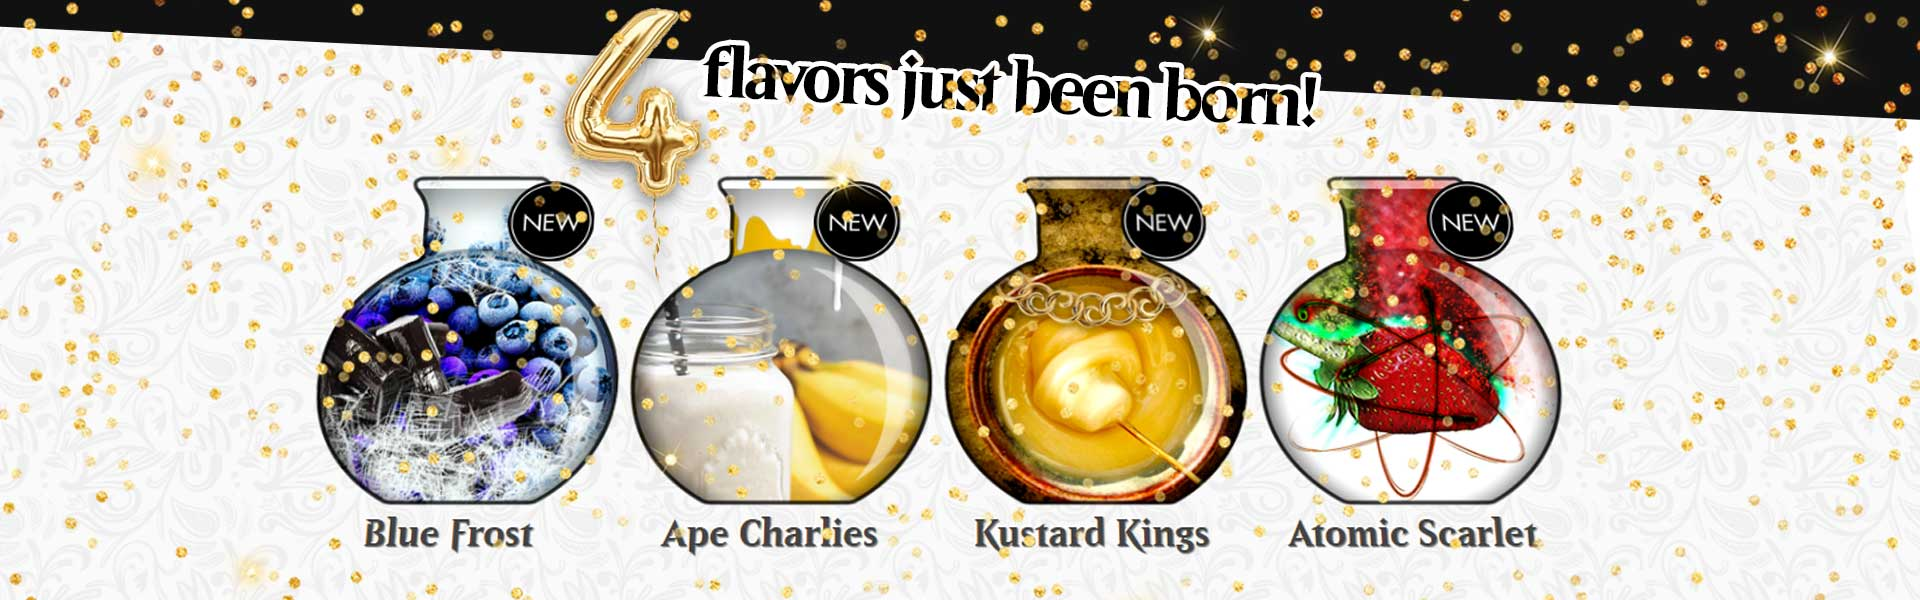
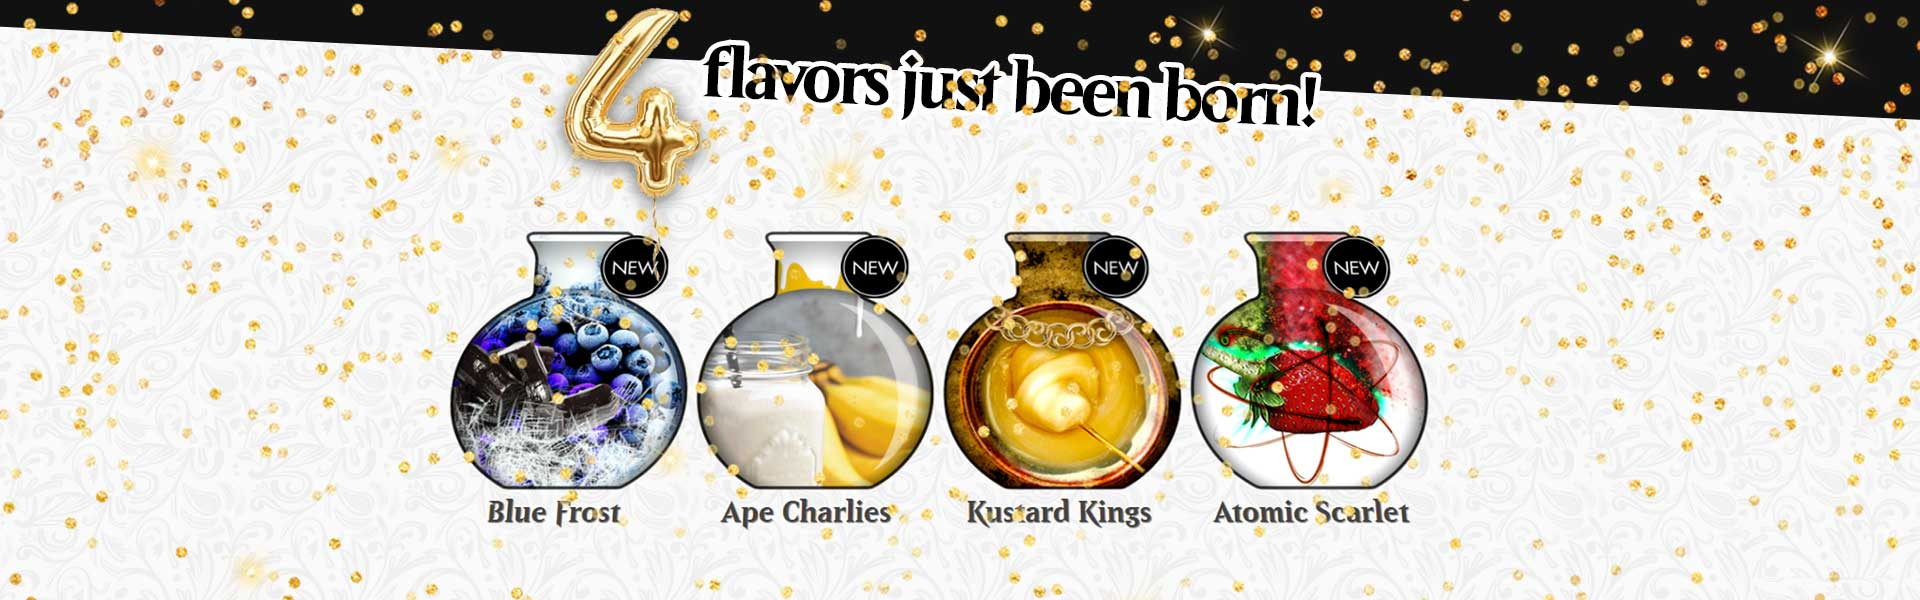
slideshow fix width

Changed region(s): [[0.1562, 0.27, 0.8125, 0.93]]

diff --git a/index.html b/index.html
@@ -70,7 +70,7 @@
           case "seducehydra":
             return pagename + ".html?v=3.4";
           case "home":
-            return pagename + ".html?v=3.8";
+            return pagename + ".html?v=3.9";
           case "starterkits":
             return pagename + ".html?v=3.4";
           case "chargers":

diff --git a/home.html b/home.html
@@ -96,7 +96,7 @@
 <div class="elementRotator fxFixed">
   <div
     class="current"
-    style="background-image: url(stylesheets/slideshows/newnectars4.jpg)"
+    style="background-image: url(stylesheets/slideshows/newnectars4.jpg?v=2)"
     onclick="preloadContent('nectars')"
   ></div>
   <div
